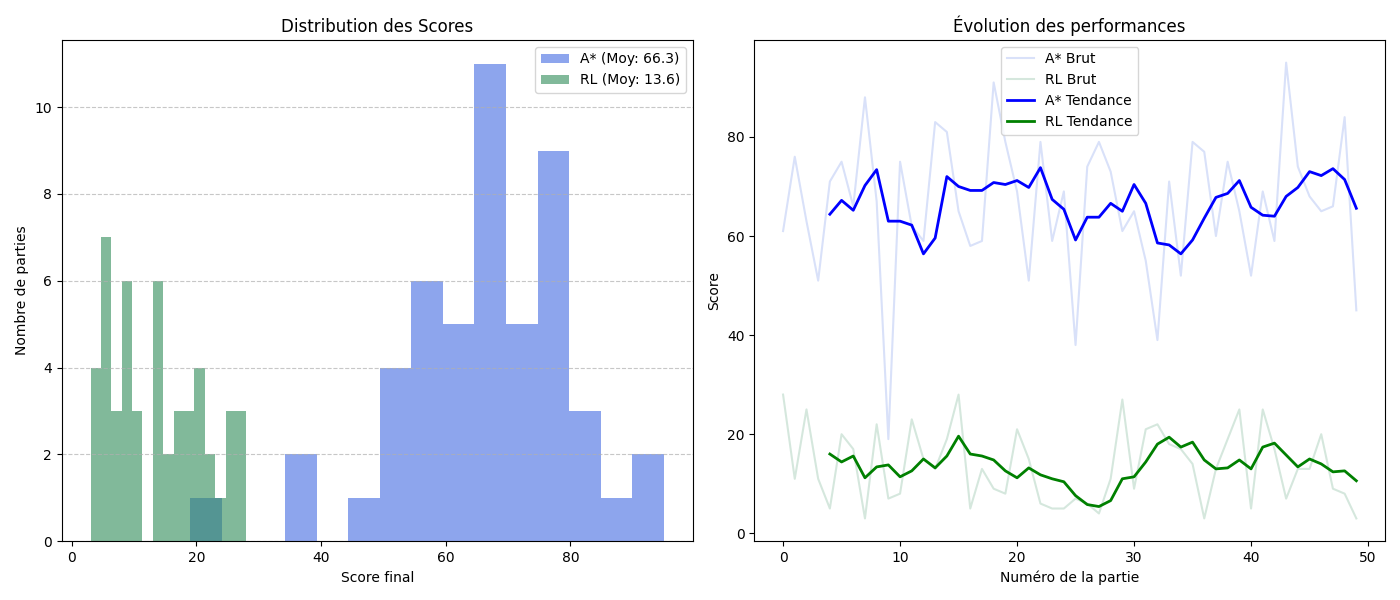
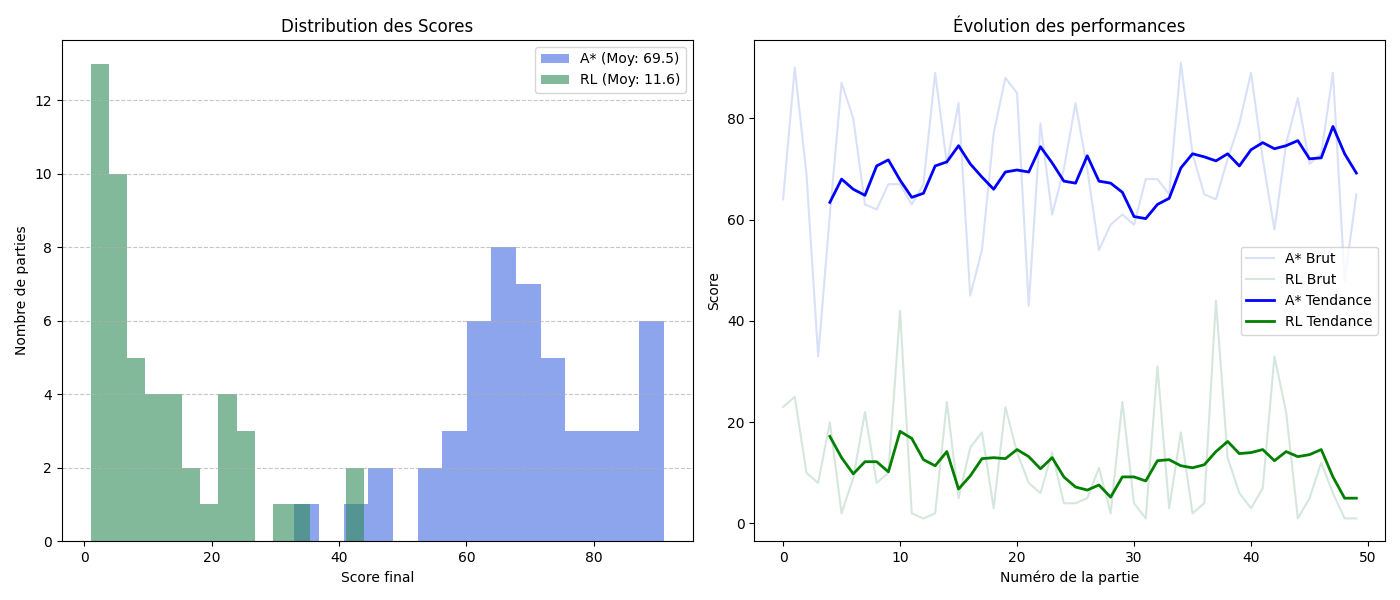
feat: update

diff --git a/README.md b/README.md
@@ -1,7 +1,17 @@
 # 🐍 Snake AI - Benchmarking Platform (RL vs A*)
 
+![Python](https://img.shields.io/badge/python-3.12-blue.svg)
+![License](https://img.shields.io/badge/license-MIT-green.svg)
+![Tests](https://img.shields.io/badge/tests-8/8%20passed-brightgreen.svg)
+
 Une plateforme de simulation de Snake haute performance conçue pour comparer l'intelligence humaine, les algorithmes de recherche de chemin classiques (**A***) et l'apprentissage par renforcement (**RL**).
 
+---
+### 📚 Documentation Approfondie
+* [**Guide d'Installation détaillé (WSL)**](docs/installation.md)
+* [**Architecture & Schéma de données**](docs/architecture.md)
+* [**Guide des Opérations (Entraînement & Tests)**](docs/operations.md)
+---
 
 
 ## ✨ Fonctionnalités (Features)
@@ -17,6 +27,29 @@ Le projet **Snake AI** offre un environnement complet pour le développement et 
 * **✅ Qualité Industrielle** : Intégration continue (CI) avec validation automatique des tests unitaires, formatage du code via `Ruff` et gestion des dépendances via `uv`.
 ---
 
+### Démonstration et Performance
+Le mode Duel permet de visualiser les strategies divergentes:
+* **A***: *Recherche de chemin déterministe (optimalité à court terme)*.
+* **RL (Q-Learning)**: Comportement appris par expérience (gestion de l'espace).
+
+![Comparaison A* vs RL](docs/architecture/img/duel_screenshot.png)
+
+### Analyse des Performances
+Les résultats des simulations sont compilés automatiquement dans un graphique de benchmarking:
+![Graphique de Performance](benchmarks/comparison_chart.png)
+
+
+## 📐 Conception Logicielle (UML)
+Le projet suit une architecture découplée pour isoler la logique de jeu de l'intelligence Articificielle.
+
+![Diagramme de Classes UML](docs/architecture/img/class_diagram.png)
+
+**Concepts clés appliqués :**
+* **Singleton/Configuration**: Gestion centralisée via `settings.py`
+* **Deep Copying** : Clonage d'état pour garantir l'équite du Duel.
+* **Abstraction d'Agent** : Interface commune pour A* et le Q-Learning.
+
+
 ## 🏗 Structure du Projet
 
 L'architecture est organisée selon le principe de **séparation des préoccupations** (SOC), garantissant que la logique de l'IA est totalement indépendante de l'affichage graphique.
@@ -31,7 +64,7 @@ Snake_AI_RL/
 │   ├── engine/           # Moteur physique et règles du jeu (SnakeEngine)
 │   ├── agents/           # Intelligence Artificielle
 │   │   ├── rl/           # Agent Reinforcement Learning (Modèles, Encoders)
-│   │   └── search/       # Agent A* (Pathfinding)
+│   │   └── astar/        # Agent A* (Pathfinding)
 │   ├── simulation/       # Gestion des modes (Manual, Duel, ModeManager)
 │   └── ui/               # Interface graphique et rendu (SnakeRenderer)
 ├── main.py               # Point d'entrée de l'application
@@ -63,7 +96,7 @@ sudo apt-get install -y python3-dev build-essential curl git
 ```
 
 > [!IMPORTANT]
-> Note pour WSL : > 
+> Note pour WSL :
 > - Windows 11 (WSLg) : L'affichage est géré nativement. La fenêtre du jeu s'ouvrira directement sur votre bureau Windows.
 > - Windows 10 : Si vous n'avez pas de serveur graphique configuré, vous devrez utiliser un serveur X (comme VcXsrv) ou exécuter les scripts en mode "headless" `(export SDL_VIDEODRIVER=dummy)`
 
@@ -82,7 +115,7 @@ curl -LsSf [https://astral.sh/uv/install.sh](https://astral.sh/uv/install.sh) | 
 source $HOME/.cargo/env
 ```
 ### B. Configurer le projet
-Une fois uv installé, clonez le dépôt et laissez l'outil créer l'environnement virtuel et installer les dépendances (Pygame, Pytest, Ruff, etc.) automatiquement :
+Une fois `uv` installé, clonez le dépôt et laissez l'outil créer l'environnement virtuel et installer les dépendances (Pygame, Pytest, Ruff, etc.) automatiquement :
 
 ```bash
 # 1. Cloner le projet
@@ -90,7 +123,7 @@ git clone https://github.com/haMC365/Snake_AI_RL
 cd Snake_AI_RL
 
 # 2. Créer l'environnement et installer les dépendances (lit le fichier uv.lock)
-uv syn
+uv sync
 ```
 
 ### C. Vérifier l'installation
@@ -101,7 +134,8 @@ uv --version
 ```
 
 > [!TIP]
-> Pourquoi uv sync ? > Contrairement à pip install, cette commande supprime les paquets inutiles et s'assure que votre dossier .venv est une copie conforme de l'environnement de développement officiel.
+> Pourquoi uv sync ?
+> Contrairement à pip install, cette commande supprime les paquets inutiles et s'assure que votre dossier .venv est une copie conforme de l'environnement de développement officiel.
 
 
 ## 5. 🧪 Compiler et Valider (Qualité du Code)
@@ -189,7 +223,13 @@ L'état du jeu est encodé selon trois catégories d'informations :
 3. **Position de la Nourriture (4 bits)** :
    - La nourriture est-elle plus haut, plus bas, plus à gauche ou plus à droite que la tête ?
 
+### Logique d'Apprentissage (Q-Learning)
+L'agent est entraîné selon l'équation de Bellman (Temporal Difference learning) :
 
+$$Q(s, a) \leftarrow Q(s, a) + \alpha [R + \gamma \max_{a'} Q(s', a') - Q(s, a)]$$
+
+* **Récompenses ($R$)** : +10 (Pomme), -100 (Collision), +1 (Se rapproche de la cible).
+* **Espace d'état** : Encodage compact de 11 bits pour limiter l'explosion combinatoire ($2^{11}$ états possibles).
 
 ### Fonctionnement de l'Encodage
 

diff --git a/docs/benchmarks.md b/docs/benchmarks.md
@@ -1,0 +1,35 @@
+## 📊 Analyse des Benchmarks (A* vs RL)
+
+Le graphique `comparison_chart.png` généré par nos scripts de test permet de comparer objectivement les performances des deux approches sur une série d'épisodes identiques.
+
+![Exemple de graphique de comparaison](benchmarks/comparison_chart.png)
+
+### 📈 Interprétation des axes
+* **Axe X (Épisodes)** : Représente la répétition des parties. Plus l'indice augmente, plus nous observons la stabilité de l'agent.
+* **Axe Y (Score/Pas)** : 
+    * **Score** : Efficacité à collecter la nourriture.
+    * **Steps** : Efficacité du chemin (moins il y a de pas pour un score élevé, plus l'agent est optimal).
+
+### 🔍 Analyse Comparative
+
+| Métrique | Algorithme A* (Pathfinding) | Agent RL (Q-Learning) |
+| :--- | :--- | :--- |
+| **Comportement** | **Déterministe** : Calcule mathématiquement le chemin le plus court vers la cible. | **Stochastique** : Prend des décisions basées sur une table de probabilités apprise. |
+| **Points Forts** | Atteint presque toujours la nourriture de manière optimale si un chemin existe. | Capable de généraliser et de survivre même dans des configurations denses. |
+| **Limites** | Sensible aux calculs coûteux si la grille devient très complexe ou dynamique. | Dépend fortement de la qualité de l'entraînement et de la fonction de récompense. |
+
+### 🧠 Observations Techniques (Basées sur le cours de R. Shibasaki)
+
+L'agent RL utilise l'**Équation de Bellman** pour mettre à jour sa Q-Table. On peut observer sur les courbes :
+1.  **Phase d'Exploration** : Au début, les scores du RL sont erratiques (l'agent teste des actions au hasard via la politique $\epsilon$-greedy).
+2.  **Convergence** : Après un certain nombre d'épisodes, la courbe du RL se stabilise, montrant que l'agent a "compris" les concepts de danger et de récompense.
+3.  **Écart de Performance** : L'A* sert de "ligne de base" (baseline). L'objectif du RL n'est pas forcément de dépasser l'A* en score pur, mais d'atteindre une efficacité comparable en utilisant uniquement sa perception sensorielle (11 bits).
+
+
+
+---
+
+### Comment régénérer ces données ?
+Si vous modifiez les paramètres de l'IA (learning rate, discount factor) ou la fonction de récompense, vous devez relancer le benchmark pour mettre à jour le graphique :
+```bash
+uv run python benchmarks/run_duel_benchmark.py

diff --git a/docs/installation.md b/docs/installation.md
@@ -1,0 +1,55 @@
+# Guide d'Installation (WSL2/Ubuntu)
+
+Ce guide détaille les étapes pour configurer l'environnement de développement de zéro, particulierement si vous utilisez Windows Subsystem for Linux (WSL2)
+
+## 1. Prérequis Système (Ubuntu/Debian)
+Avant d'installer les biblioteques de Python, vous devez installer les dépendances système necessaires pour le rendu graphique de Pygame et les outils de build.
+
+Executer la commande suivante dans le terminal Ubuntu:
+```bash
+sudo apt update && sudo apt install -y \
+    libgl1-mesa-dev \
+    libsdl2-dev \
+    libsdl2-image-dev \
+    libsdl2-mixer-dev \
+    libsdl2-ttf-dev \
+    libfreetype6-dev \
+    libportmidi-dev \
+    libavformat-dev \
+    libswscale-dev \
+    python3-dev \
+    build-essential
+```
+
+**Note pour WSL2:** Assurez-vous que votre version de windows est à jour (Windows 10 21H2+ ou Windows 11) pour beneficier du support natif de WSLf (affichage des fenêtres Linux sur Windows)
+
+
+## 2. Installation de Gestionnaire de Paquets `uv`
+Nous utilisons `uv` pour garantir que tout le monde utilise exactement les mêmes versions de bibliotèques (via le fichier `uv.lock`)
+- **Installer** `uv`:
+  ```bash
+  curl -LsSF https://astral.sh/uv/install.sh | sh
+  ```
+
+- **Redemarrer le terminal** ou lancer `source $HOME/.cargo/env`.
+
+
+## 3. Configuration du Projet
+Une fois le dépot cloné et les dépendances système installées:
+
+1. **Navigueur dans le dossier**:
+    ```bash
+    cd snake_ai_rl
+    ```
+
+2. **Synchroniser l'evennement**:
+    ```bash
+    uv sync
+    ```
+    *Cette commande crée unvironement virtuel (`.venv`) et installe automatiquement toutes les dépendances (Pygame, Numpy, Msgpack, etc)* 
+
+## 4. Vérification de l'installation
+Pour vérifier que l'environnement est opérationnel, lancer la suite de tests:
+```bash
+uv run pytest
+```

diff --git a/docs/operations.md b/docs/operations.md
@@ -1,0 +1,52 @@
+# Structure de Guide de Commandes
+
+## A. Gestion de l'Environnement (Installation)
+
+```bash
+# Installer les dependances (créé le venv et installe les libs de pyprojet.toml)
+uv sync
+
+# Mettre à jour les bibliotèques vers la dernière version compatible
+uv lock -- upgrade
+
+# Ajouter un nouvelle biblioteque (ex. numpy)
+uv add numpy
+```
+
+## B. Execution du Programme
+```bash
+# Lancer le programme principal (Mode Manuel par defaut)
+uv run main.py
+
+# Note: Dans le programme, appuyez sur 'D' pour basculer en mode DUEL.
+```
+
+## C. Entrainement de l'IA (Training)
+```bash
+# Lancer un nouvel entrainement de l'agent RL
+uv run python snake_ai/agents/rl/trainer.py
+
+# Visualizer la progression de l'entrainement avec TensorBoard
+uv run tensorboard --logdir=logs/
+```
+
+## D. Tests et Qualite du Code
+```bash
+# Lancer la suite complete de tests (pytest)
+uv run pytest
+
+# Lancer un test spécifique (ex: moteur de jeu)
+uv run pytest tests/test_engine.py
+
+# Vérifier la conformité du code (Linting avec Ruff)
+uv run ruff check .
+```
+
+## E. Benchmarking et Compilation
+```bash
+# Lancer le benchmark de duel et generer la graphique de comparaison
+uv run benchmarks/run_duel_benchmark.py
+
+# (Optionnel) Contruire l'image Docker pour le déploiment
+docker build -t snake-ai-rl
+```

diff --git a/docs/architecture/explanation.md b/docs/architecture/explanation.md
@@ -1,0 +1,9 @@
+# Architecture
+## Approche
+- *Version Initiale*: Heritage Classique
+  - Base Agent (Classe Abstraite): définit la méthode `get_action()`
+  - AStarAgent: Herite de Base_Agent
+  - ATableAgent (RLAgent): Herite de Base_Agent
+
+- *Version Actuelle*: Approche Composition et Decouplage
+  - RLAgent poosède son propre `StateEncoder` et la logique de chargement `msgpack`, tandis qu'`AStarAgent` utilise une logique algorithmique pure. 
